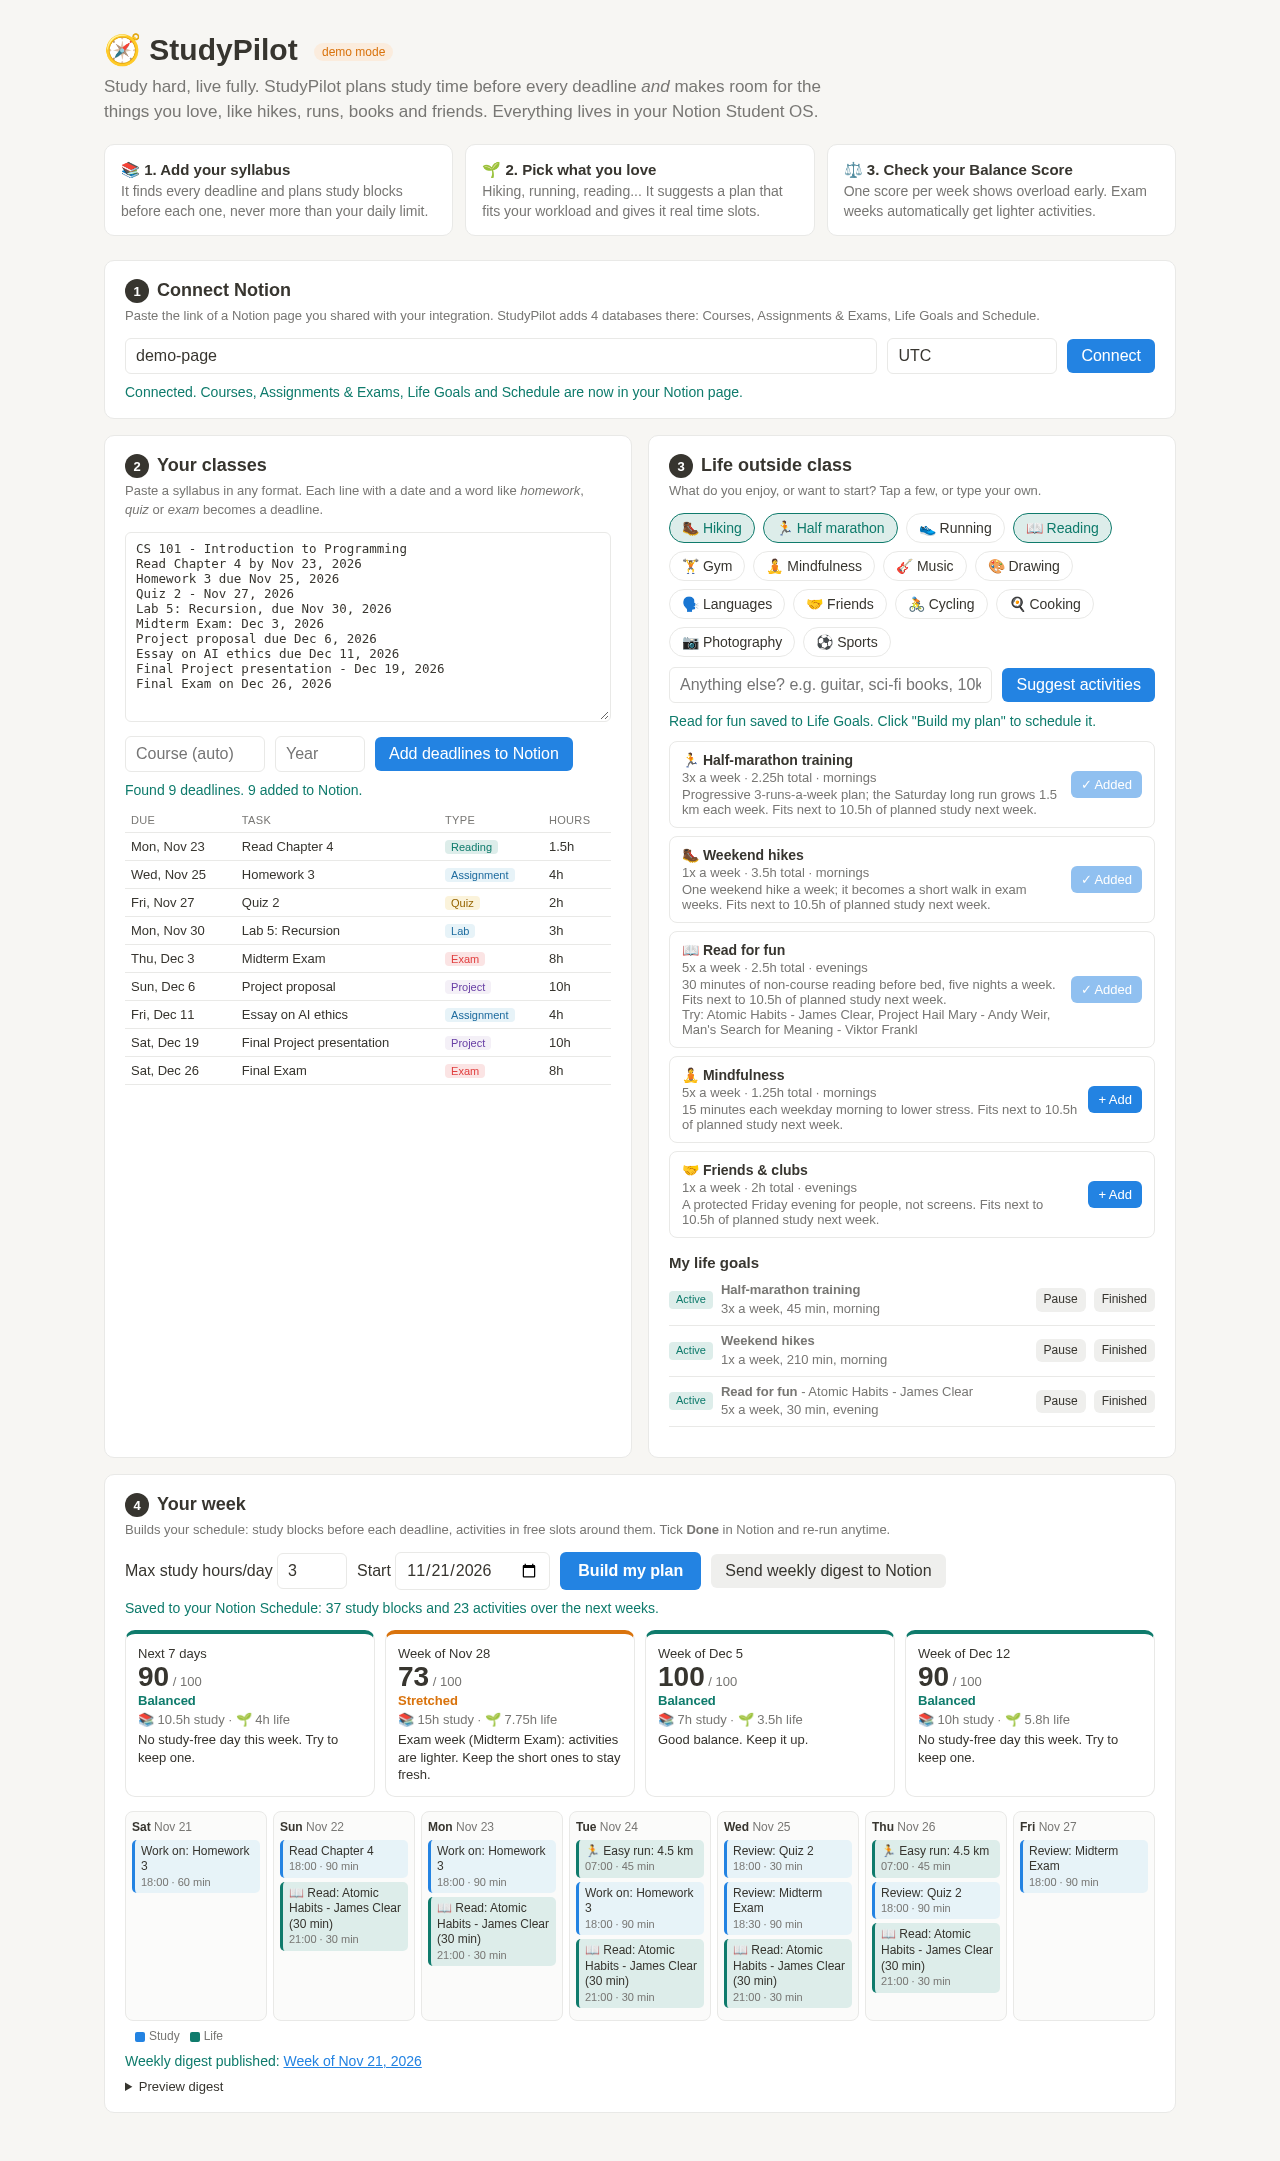
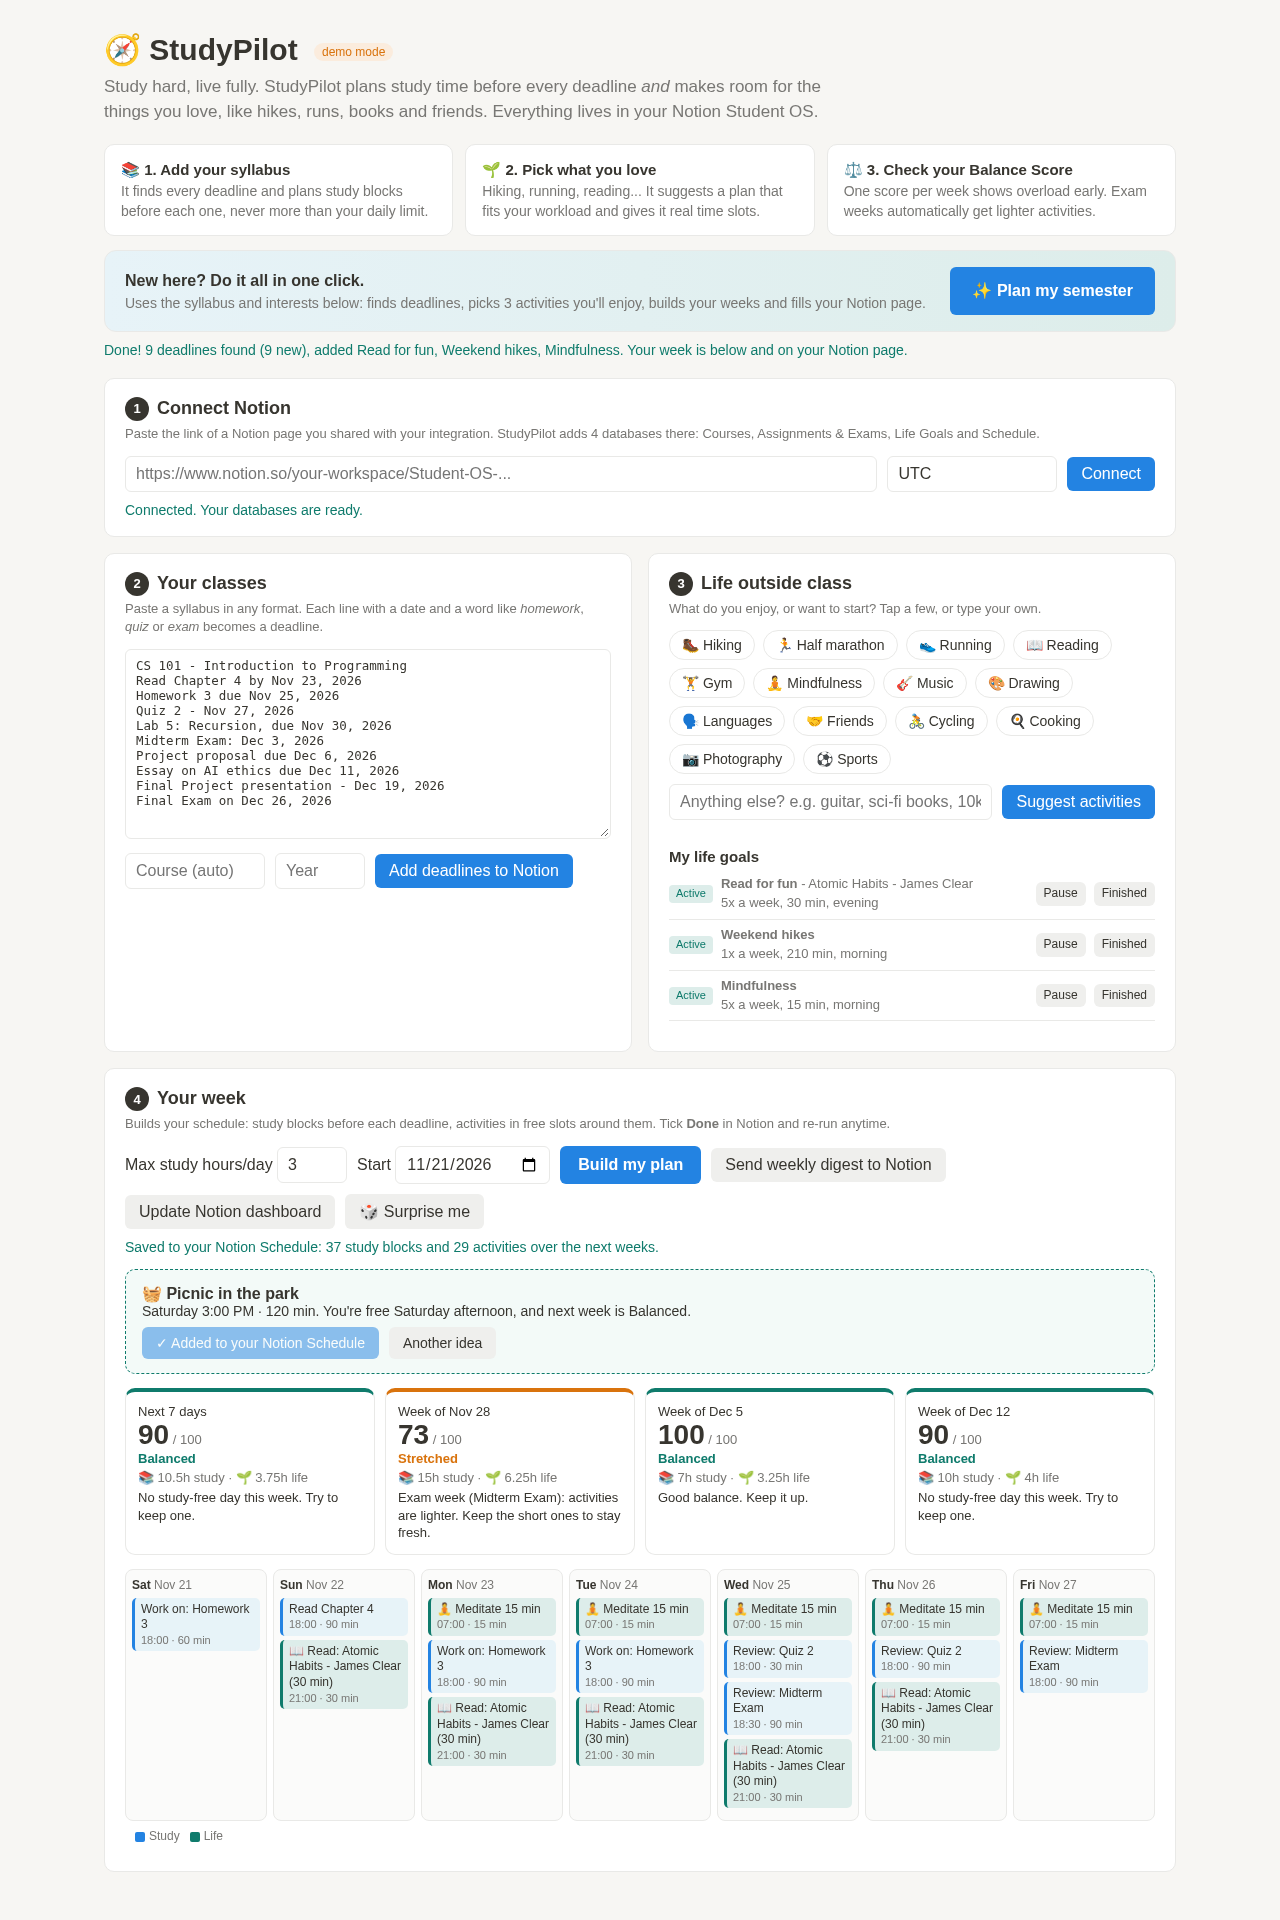
One-click 'Plan my semester' and 'Surprise me' in the web app; fix bold text in Notion dashboard

diff --git a/studypilot/static/index.html b/studypilot/static/index.html
@@ -56,6 +56,10 @@
   .legend { font-size:12px; color:var(--muted); margin-top:8px; } .legend i { display:inline-block; width:10px; height:10px; border-radius:2px; margin:0 4px 0 10px; vertical-align:middle; }
   details { margin-top:10px; font-size:13px; } pre { white-space:pre-wrap; background:#f7f6f3; padding:12px; border-radius:6px; font-size:12px; }
   a { color:var(--study); }
+  .hero { display:flex; gap:16px; align-items:center; justify-content:space-between; margin-top:14px; padding:16px 20px; border-radius:12px; background:linear-gradient(90deg,#e7f3f8,#ddedea); border:1px solid var(--line); font-size:14px; color:var(--muted); line-height:1.45; }
+  .hero b { color:var(--ink); font-size:16px; } .hero button { white-space:nowrap; font-size:16px; padding:12px 22px; }
+  .surprise { display:none; margin-top:14px; padding:14px 16px; border-radius:10px; border:1px dashed var(--life); background:#f3faf8; font-size:14px; }
+  .surprise b { font-size:16px; } .surprise .row { margin-top:8px; }
 </style>
 </head>
 <body>
@@ -68,6 +72,11 @@
     <div><b>🌱 2. Pick what you love</b>Hiking, running, reading... It suggests a plan that fits your workload and gives it real time slots.</div>
     <div><b>⚖ 3. Check your Balance Score</b>One score per week shows overload early. Exam weeks automatically get lighter activities.</div>
   </div>
+  <section class="hero">
+    <div><b>New here? Do it all in one click.</b><br>Uses the syllabus and interests below: finds deadlines, picks 3 activities you'll enjoy, builds your weeks and fills your Notion page.</div>
+    <button id="autoBtn" class="big">✨ Plan my semester</button>
+  </section>
+  <div id="autoMsg" class="msg"></div>
 </header>
 <main>
   <section class="card">
@@ -119,8 +128,10 @@
       <button id="planBtn" class="big">Build my plan</button>
       <button id="digestBtn" class="ghost">Send weekly digest to Notion</button>
       <button id="dashboardBtn" class="ghost">Update Notion dashboard</button>
+      <button id="surpriseBtn" class="ghost">🎲 Surprise me</button>
     </div>
     <div id="planMsg" class="msg"></div>
+    <div id="surprise" class="surprise"></div>
     <div id="scores" class="scores"></div>
     <div id="cal" class="cal" style="display:none"></div>
     <div id="legend" class="legend" style="display:none"><i style="background:var(--study)"></i>Study<i style="background:var(--life)"></i>Life</div>
@@ -197,7 +208,7 @@ async function loadGoals() {
 
 $("suggestBtn").onclick = busy($("suggestBtn"), async () => {
   try {
-    const interests = [...picked, $("interests").value].filter(Boolean).join(", ");
+    const interests = interestText();
     const sugs = (await api("/api/suggest", { interests, today: day() })).suggestions;
     $("suggestions").innerHTML = sugs.map((s, i) => `<div class="sug"><b>${s.emoji} ${esc(s.title)}</b><button data-i="${i}">+ Add</button><span class="meta">${s.sessions_per_week}x a week · ${s.weekly_hours}h total · ${esc(s.time).toLowerCase()}s</span><span class="meta">${esc(s.why)}${s.books ? "<br>Try: " + s.books.slice(0, 3).map(esc).join(", ") : ""}</span></div>`).join("");
     document.querySelectorAll(".sug button").forEach((b) => b.onclick = async () => {
@@ -208,9 +219,7 @@ $("suggestBtn").onclick = busy($("suggestBtn"), async () => {
   } catch (e) { say("lifeMsg", e.message, false); }
 });
 
-$("planBtn").onclick = busy($("planBtn"), async () => {
-  try {
-    const p = await api("/api/plan", { today: day(), daily_cap: +$("cap").value });
+function renderPlan(p) {
     const study = p.sessions.filter((s) => s.kind === "Study"), life = p.sessions.filter((s) => s.kind === "Life");
     say("planMsg", `Saved to your Notion Schedule: ${study.length} study blocks and ${life.length} activities over the next weeks.`);
     $("scores").innerHTML = p.weeks.map((w, i) => `<div class="score ${w.label.split(" ")[0]}"><div>${i ? "Week of " + nice(w.start, { month: "short", day: "numeric" }) : "Next 7 days"}</div>
@@ -220,6 +229,38 @@ $("planBtn").onclick = busy($("planBtn"), async () => {
     $("cal").innerHTML = days.map((d) => `<div class="day"><div class="dh">${nice(d, { weekday: "short" })} <span>${nice(d, { month: "short", day: "numeric" })}</span></div>`
       + p.sessions.filter((s) => s.start.slice(0, 10) === d).map((s) => `<div class="blk ${s.kind}">${esc(s.title)}<i>${s.start.slice(11, 16)} · ${s.hours * 60} min</i></div>`).join("") + "</div>").join("");
     $("cal").style.display = $("legend").style.display = "";
+}
+const interestText = () => [...picked, $("interests").value].filter(Boolean).join(", ");
+
+$("autoBtn").onclick = busy($("autoBtn"), async () => {
+  try {
+    say("autoMsg", "Working: reading your syllabus, picking activities, planning your weeks...");
+    const r = await api("/api/autopilot", { text: $("syllabus").value, interests: interestText(), today: day(), daily_cap: +$("cap").value, course: $("course").value || null, year: +$("year").value || null });
+    say("autoMsg", `Done! ${r.found} deadlines found (${r.created} new)` + (r.goals_added.length ? `, added ${r.goals_added.join(", ")}` : "") + ". Your week is below" + (r.dashboard ? " and on your Notion page." : "."));
+    loadGoals(); renderPlan(r.plan);
+    $("scores").scrollIntoView({ behavior: "smooth", block: "center" });
+  } catch (e) { say("autoMsg", e.message, false); }
+});
+
+let idea = null, seed = 1;
+$("surpriseBtn").onclick = busy($("surpriseBtn"), async () => {
+  try {
+    idea = (await api("/api/surprise", { interests: interestText(), today: day(), seed: seed++ })).idea;
+    const when = idea && new Date(idea.start.slice(0, 16)).toLocaleString("en-US", { weekday: "long", hour: "numeric", minute: "2-digit" });
+    $("surprise").innerHTML = idea ? `<b>${idea.emoji} ${esc(idea.title)}</b><br>${when} · ${idea.hours * 60} min. ${esc(idea.why)}<div class="row"><button id="takeBtn">Add to my schedule</button><button id="againBtn" class="ghost">Another idea</button></div>`
+      : "Your week is full. Try lowering study hours/day or check next week.";
+    $("surprise").style.display = "block";
+    if (idea) {
+      $("againBtn").onclick = () => $("surpriseBtn").click();
+      $("takeBtn").onclick = async () => { $("takeBtn").disabled = true; await api("/api/surprise/add", { idea }); $("takeBtn").textContent = "✓ Added to your Notion Schedule"; };
+    }
+  } catch (e) { say("planMsg", e.message, false); }
+});
+
+$("planBtn").onclick = busy($("planBtn"), async () => {
+  try {
+    const p = await api("/api/plan", { today: day(), daily_cap: +$("cap").value });
+    renderPlan(p);
   } catch (e) { say("planMsg", e.message, false); }
 });
 

diff --git a/studypilot/dashboard.py b/studypilot/dashboard.py
@@ -11,8 +11,11 @@ from .models import Goal, Item, Plan
 REPO_URL = "https://github.com/ratulhasanruhan/studypilot-notion"
 
 
-def _text(content: str, **kwargs) -> dict:
-    return {"type": "text", "text": {"content": content, **kwargs}}
+def _text(content: str, annotations: dict | None = None, **kwargs) -> dict:
+    out = {"type": "text", "text": {"content": content, **kwargs}}
+    if annotations:
+        out["annotations"] = annotations
+    return out
 
 
 def _block(block_type: str, content: dict) -> dict:
